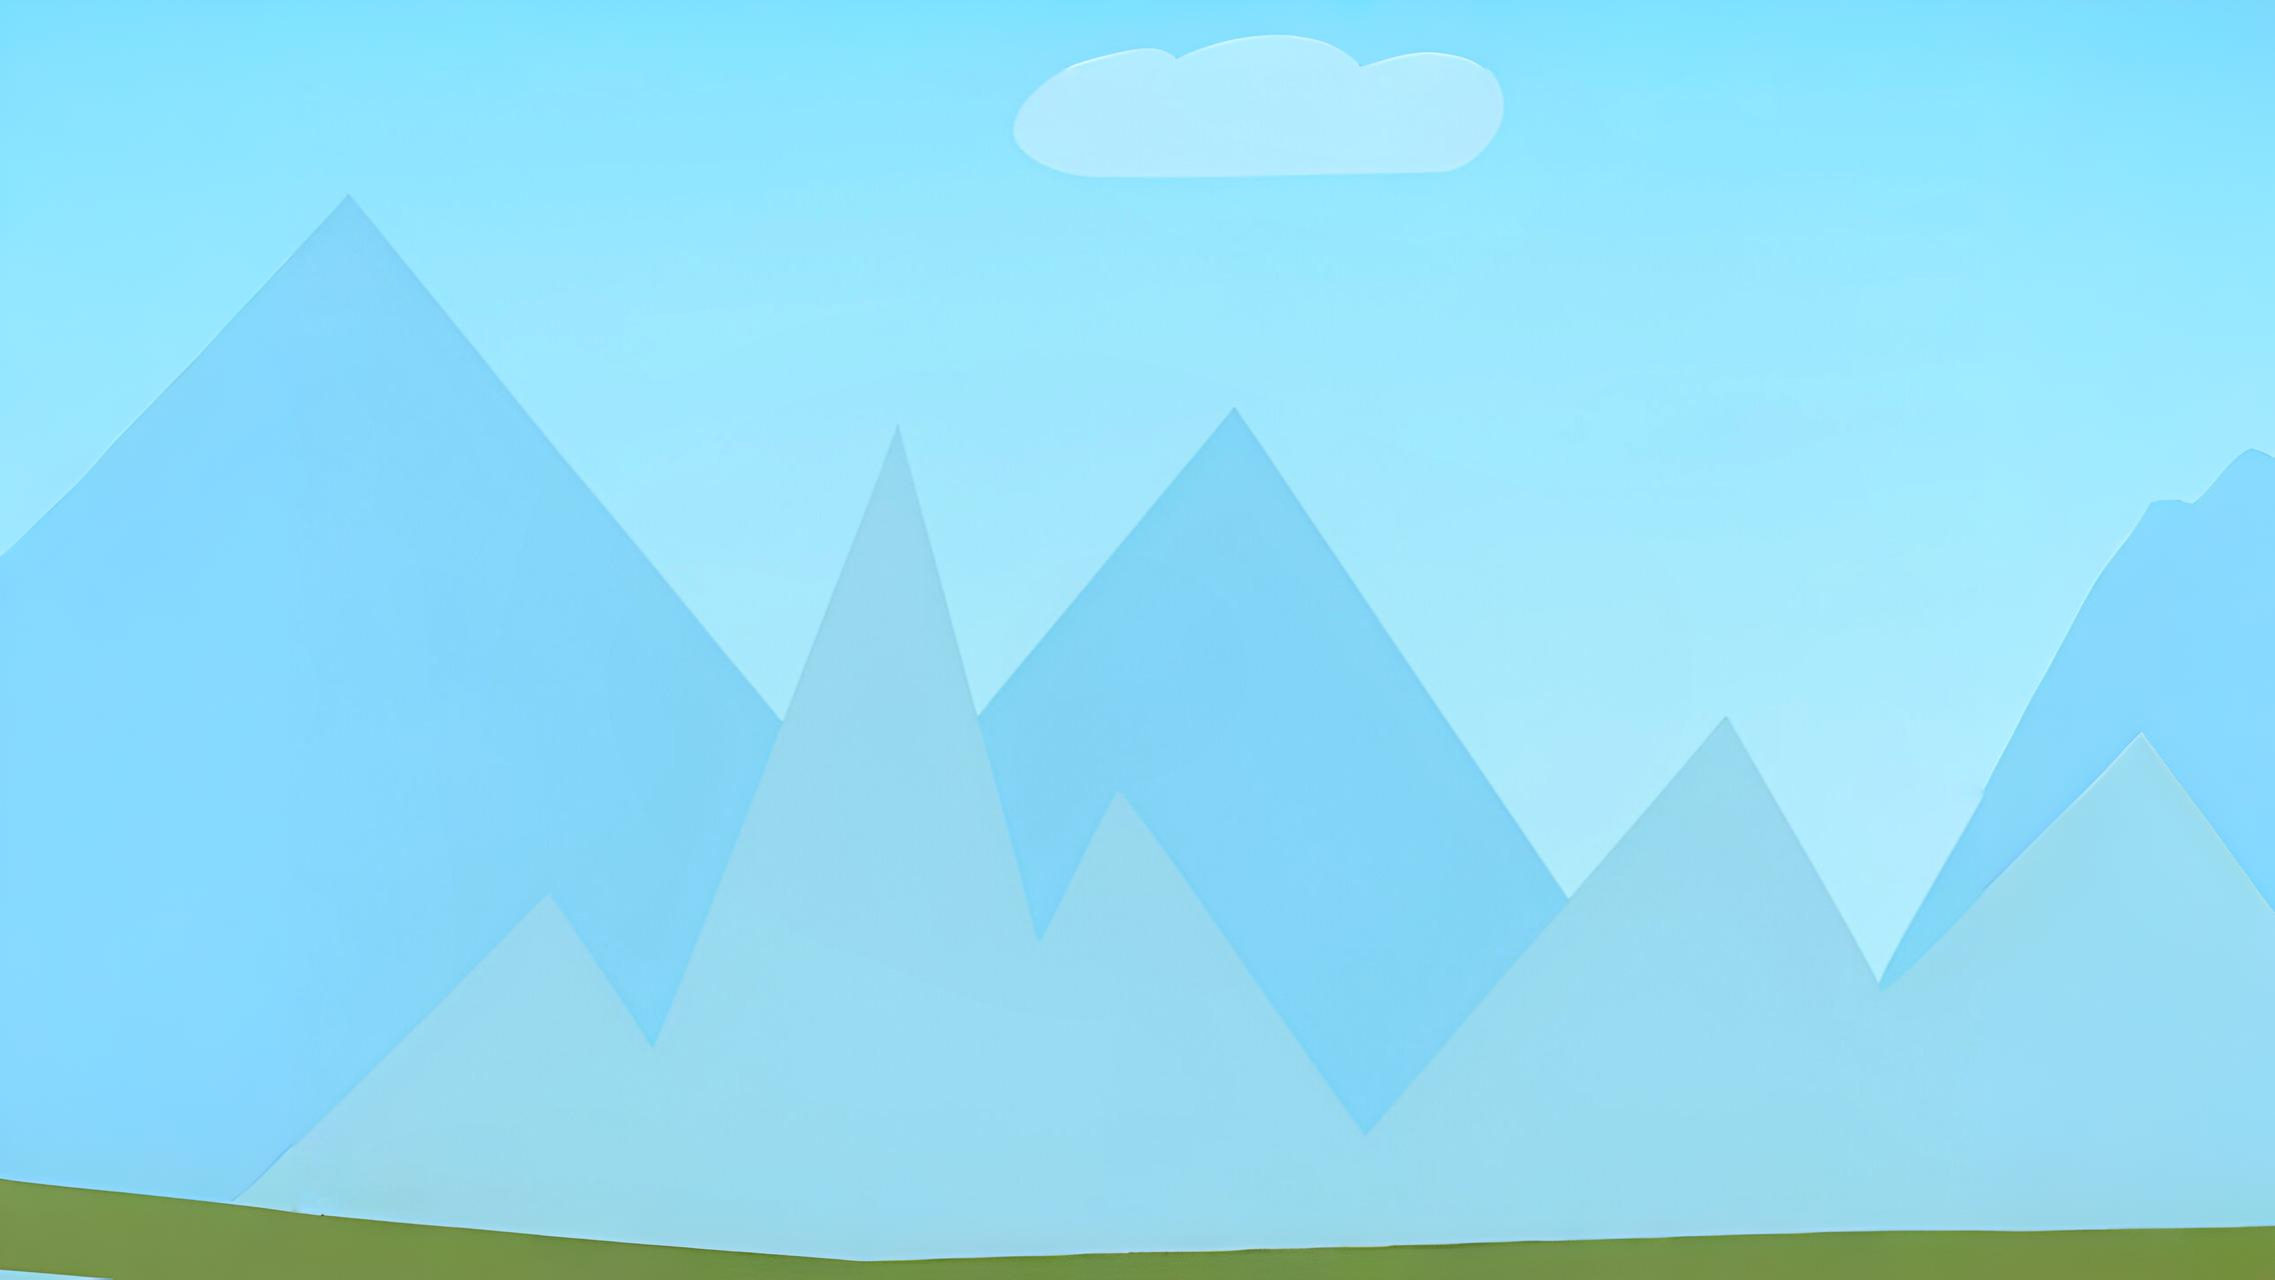
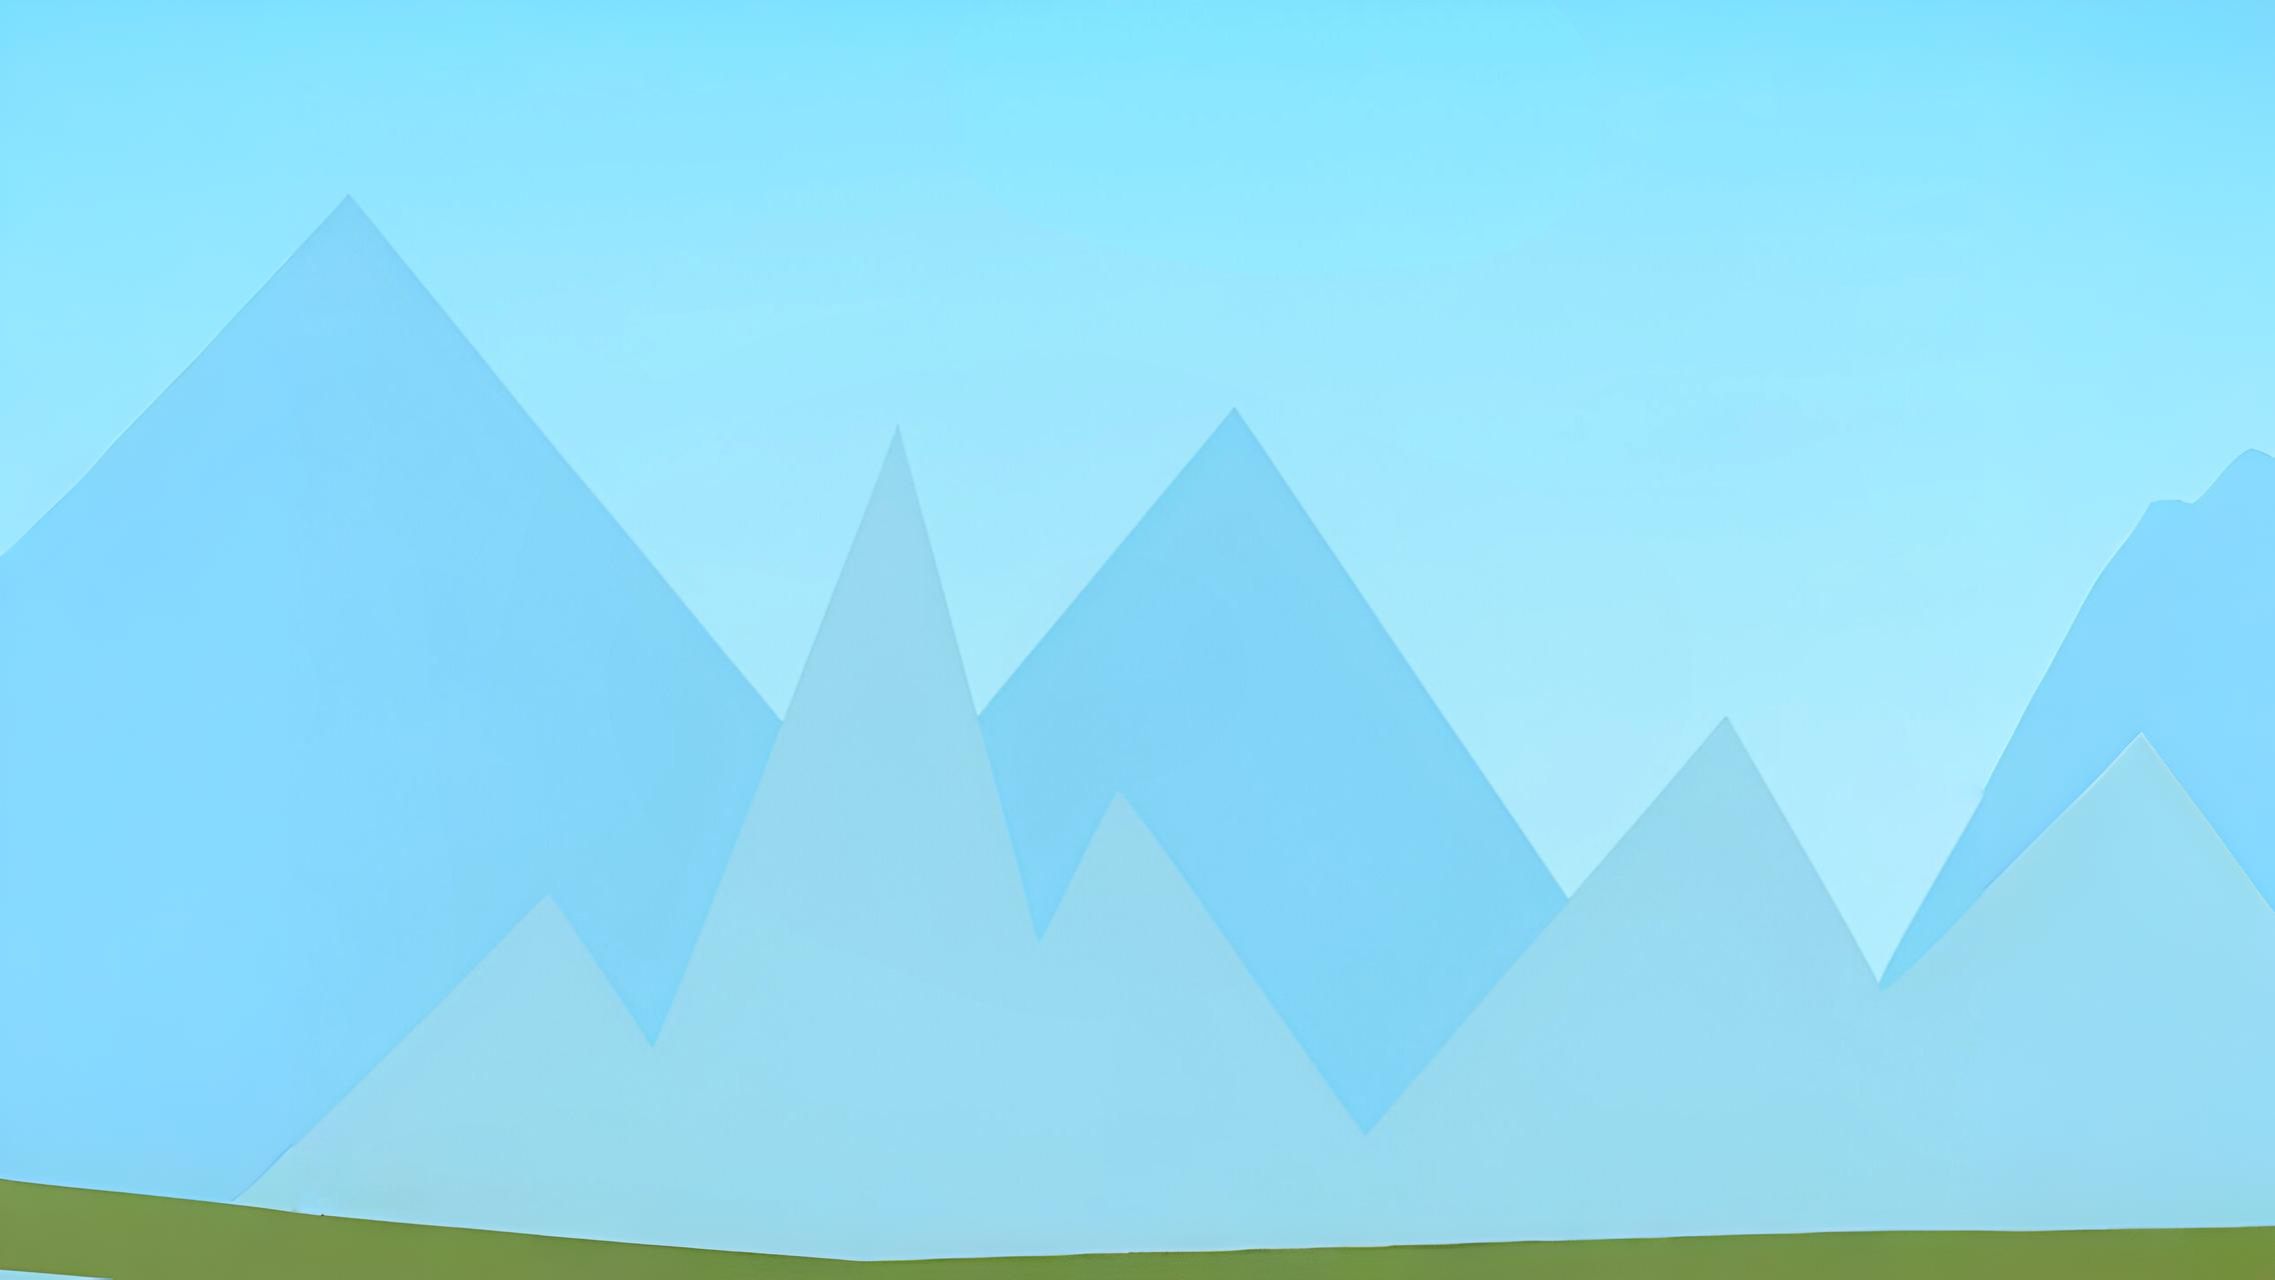
works

Changed region(s): [[0.4369, 0.0312, 0.6866, 0.1562]]

diff --git a/src/main/java/application/project/MainMenu.java b/src/main/java/application/project/MainMenu.java
@@ -6,16 +6,20 @@ import javafx.scene.layout.AnchorPane;
 public class MainMenu {
     private final AnchorPane anchorPane;
     private int state;
+    private static String gameResultText = "welcome";
+
     public MainMenu(AnchorPane anchorPane) {
         this.anchorPane = anchorPane;
         createLevelOneButton();
         createLevelTwoButton();
         createLevelThreeButton();
+        generateGameResult();
+        System.out.println(gameResultText);
     }
     private void createLevelOneButton() {
         Label levelOneLabel = new Label("level 1");
         levelOneLabel.setLayoutX(960);
-        levelOneLabel.setLayoutY(anchorPane.getLayoutY()/2);
+        levelOneLabel.setLayoutY(400);
         levelOneLabel.setStyle("-fx-background-color: blue; -fx-font-size: 24px; -fx-text-fill: red;");
         levelOneLabel.setOnMouseClicked(event -> {
             state = 1;
@@ -26,7 +30,7 @@ public class MainMenu {
     private void createLevelTwoButton() {
         Label levelTwoLabel = new Label("level 2");
         levelTwoLabel.setLayoutX(960);
-        levelTwoLabel.setLayoutY(anchorPane.getLayoutY()/2+200);
+        levelTwoLabel.setLayoutY(600);
         levelTwoLabel.setStyle("-fx-background-color: blue; -fx-font-size: 24px; -fx-text-fill: red;");
         levelTwoLabel.setOnMouseClicked(event -> {
             state = 2;
@@ -37,7 +41,7 @@ public class MainMenu {
     private void createLevelThreeButton() {
         Label levelThreeLabel = new Label("level 3");
         levelThreeLabel.setLayoutX(960);
-        levelThreeLabel.setLayoutY(anchorPane.getLayoutY()/2+400);
+        levelThreeLabel.setLayoutY(800);
         levelThreeLabel.setStyle("-fx-background-color: blue; -fx-font-size: 24px; -fx-text-fill: red;");
         levelThreeLabel.setOnMouseClicked(event -> {
             state = 3;
@@ -48,4 +52,33 @@ public class MainMenu {
     public int getState() {
         return state;
     }
+
+    private void generateGameResult() {
+        Label gameResult = new Label("welcome");
+        gameResult.setLayoutX(920);
+        gameResult.setLayoutY(100);
+        if (gameResultText.equals("welcome")) {
+            gameResult.setStyle("-fx-background-color: gray; -fx-font-size: 34px; -fx-text-fill: black;");
+        }
+        else if(gameResultText.equals("you lost!")) {
+            System.out.println("lost");
+            gameResult.setText("you lost!");
+            gameResult.setStyle("-fx-background-color: red; -fx-font-size: 34px; -fx-text-fill: black;");
+        }
+        else if (gameResultText.equals("you won!")) {
+            System.out.println("won");
+            gameResult.setText("you won!");
+            gameResult.setStyle("-fx-background-color: green; -fx-font-size: 34px; -fx-text-fill: black;");
+        }
+        anchorPane.getChildren().add(gameResult);
+    }
+
+    public static void setResultLost() {
+        gameResultText = "you lost!";
+    }
+
+    public static void setResultWon() {
+        gameResultText = "you won!";
+    }
+
 }

diff --git a/src/main/java/application/project/MainPlay.java b/src/main/java/application/project/MainPlay.java
@@ -34,6 +34,8 @@ public class MainPlay extends Application {
     BaseBlock[][] levelThreeMap;
 
 
+    int counter;
+
     @Override
     public void start(Stage stage) {
         this.stage = stage;
@@ -48,10 +50,10 @@ public class MainPlay extends Application {
             backgroundView.setFitWidth(1920);
             backgroundView.setFitHeight(1080);
             anchorPane.getChildren().add(backgroundView);
-            this.cloud = new ImageView("sql.png");
-            cloud.setFitWidth(160);
-            cloud.setFitHeight(90);
-            cloud.setX(-160);
+            this.cloud = new ImageView("cloud.png");
+            cloud.setFitWidth(380);
+            cloud.setFitHeight(150);
+            cloud.setX(-380);
             anchorPane.getChildren().add(cloud);
             stage.setFullScreen(true);
             stage.setFullScreenExitHint("press esc to exit fullscreen");
@@ -102,7 +104,7 @@ public class MainPlay extends Application {
     private void run() {
         // cloud animation
         if (cloud.getX() == 1920) {
-            cloud.setX(-160);}
+            cloud.setX(-380);}
         cloud.setX(cloud.getX()+5);
 
         if (state == 0) {
@@ -112,41 +114,47 @@ public class MainPlay extends Application {
             }
         }
 
-
         if (state == 1) {
             // play level one
             if (playLevelOne.validated){
                 state = 0;
-                System.out.println("ok");
+                MainMenu.setResultWon();
                 MovingPipes.setNumberOfClicks(0);
                 start(stage);
             }
         }
+
         if (state == 2) {
             // play level two
             if (MovingPipes.getNumberOfClicks() > playLevelTwo.maxMoves) {
                 state = 0;
                 MovingPipes.setNumberOfClicks(0);
+                MainMenu.setResultLost();
                 start(stage);
             }
             if (playLevelTwo.validated){
                 state = 0;
-                System.out.println("ok");
                 MovingPipes.setNumberOfClicks(0);
+                MainMenu.setResultWon();
                 start(stage);
             }
         }
 
         if (state == 3) {
             // play level two
-            if (MovingPipes.getNumberOfClicks() > playLevelThree.maxMoves) {
+            counter++;
+            playLevelThree.setTimerText(String.format("time: %.2f", 30-counter*0.2));
+            if (MovingPipes.getNumberOfClicks() > playLevelThree.maxMoves || 30-counter*0.2 < 0) {
                 state = 0;
+                counter = 0;
+                MainMenu.setResultLost();
                 MovingPipes.setNumberOfClicks(0);
                 start(stage);
             }
             if (playLevelThree.validated){
                 state = 0;
-                System.out.println("finished");
+                counter = 0;
+                MainMenu.setResultWon();
                 MovingPipes.setNumberOfClicks(0);
                 start(stage);
             }

diff --git a/src/main/java/application/project/PlayLevelThree.java b/src/main/java/application/project/PlayLevelThree.java
@@ -7,11 +7,13 @@ import javafx.scene.layout.AnchorPane;
 public class PlayLevelThree extends PlayLevelTwo{
     private Label undoButton;
     private int numberOfUndo;
-    private int numberOfAutoFill = 0;
+    private int numberOfAutoFill;
+    private Label timer;
 
     public PlayLevelThree(AnchorPane anchorPane, int[][] solution, int maxMoves) {
         super(anchorPane, solution, maxMoves);
         autoFill();
+        generateTimerLabel();
         this.undoButton = generateUndoButton();
     }
 
@@ -54,4 +56,18 @@ public class PlayLevelThree extends PlayLevelTwo{
         });
         anchorPane.getChildren().add(autoFillLabel);
     }
+
+
+    private void generateTimerLabel() {
+        this.timer = new Label();
+        timer.setLayoutX(1800);
+        timer.setLayoutY(150);
+        timer.setStyle("-fx-background-color: red; -fx-font-size: 14px; -fx-text-fill: black;");
+        anchorPane.getChildren().add(timer);
+    }
+
+    public void setTimerText(String text) {
+        timer.setText(text);
+    }
+
 }
